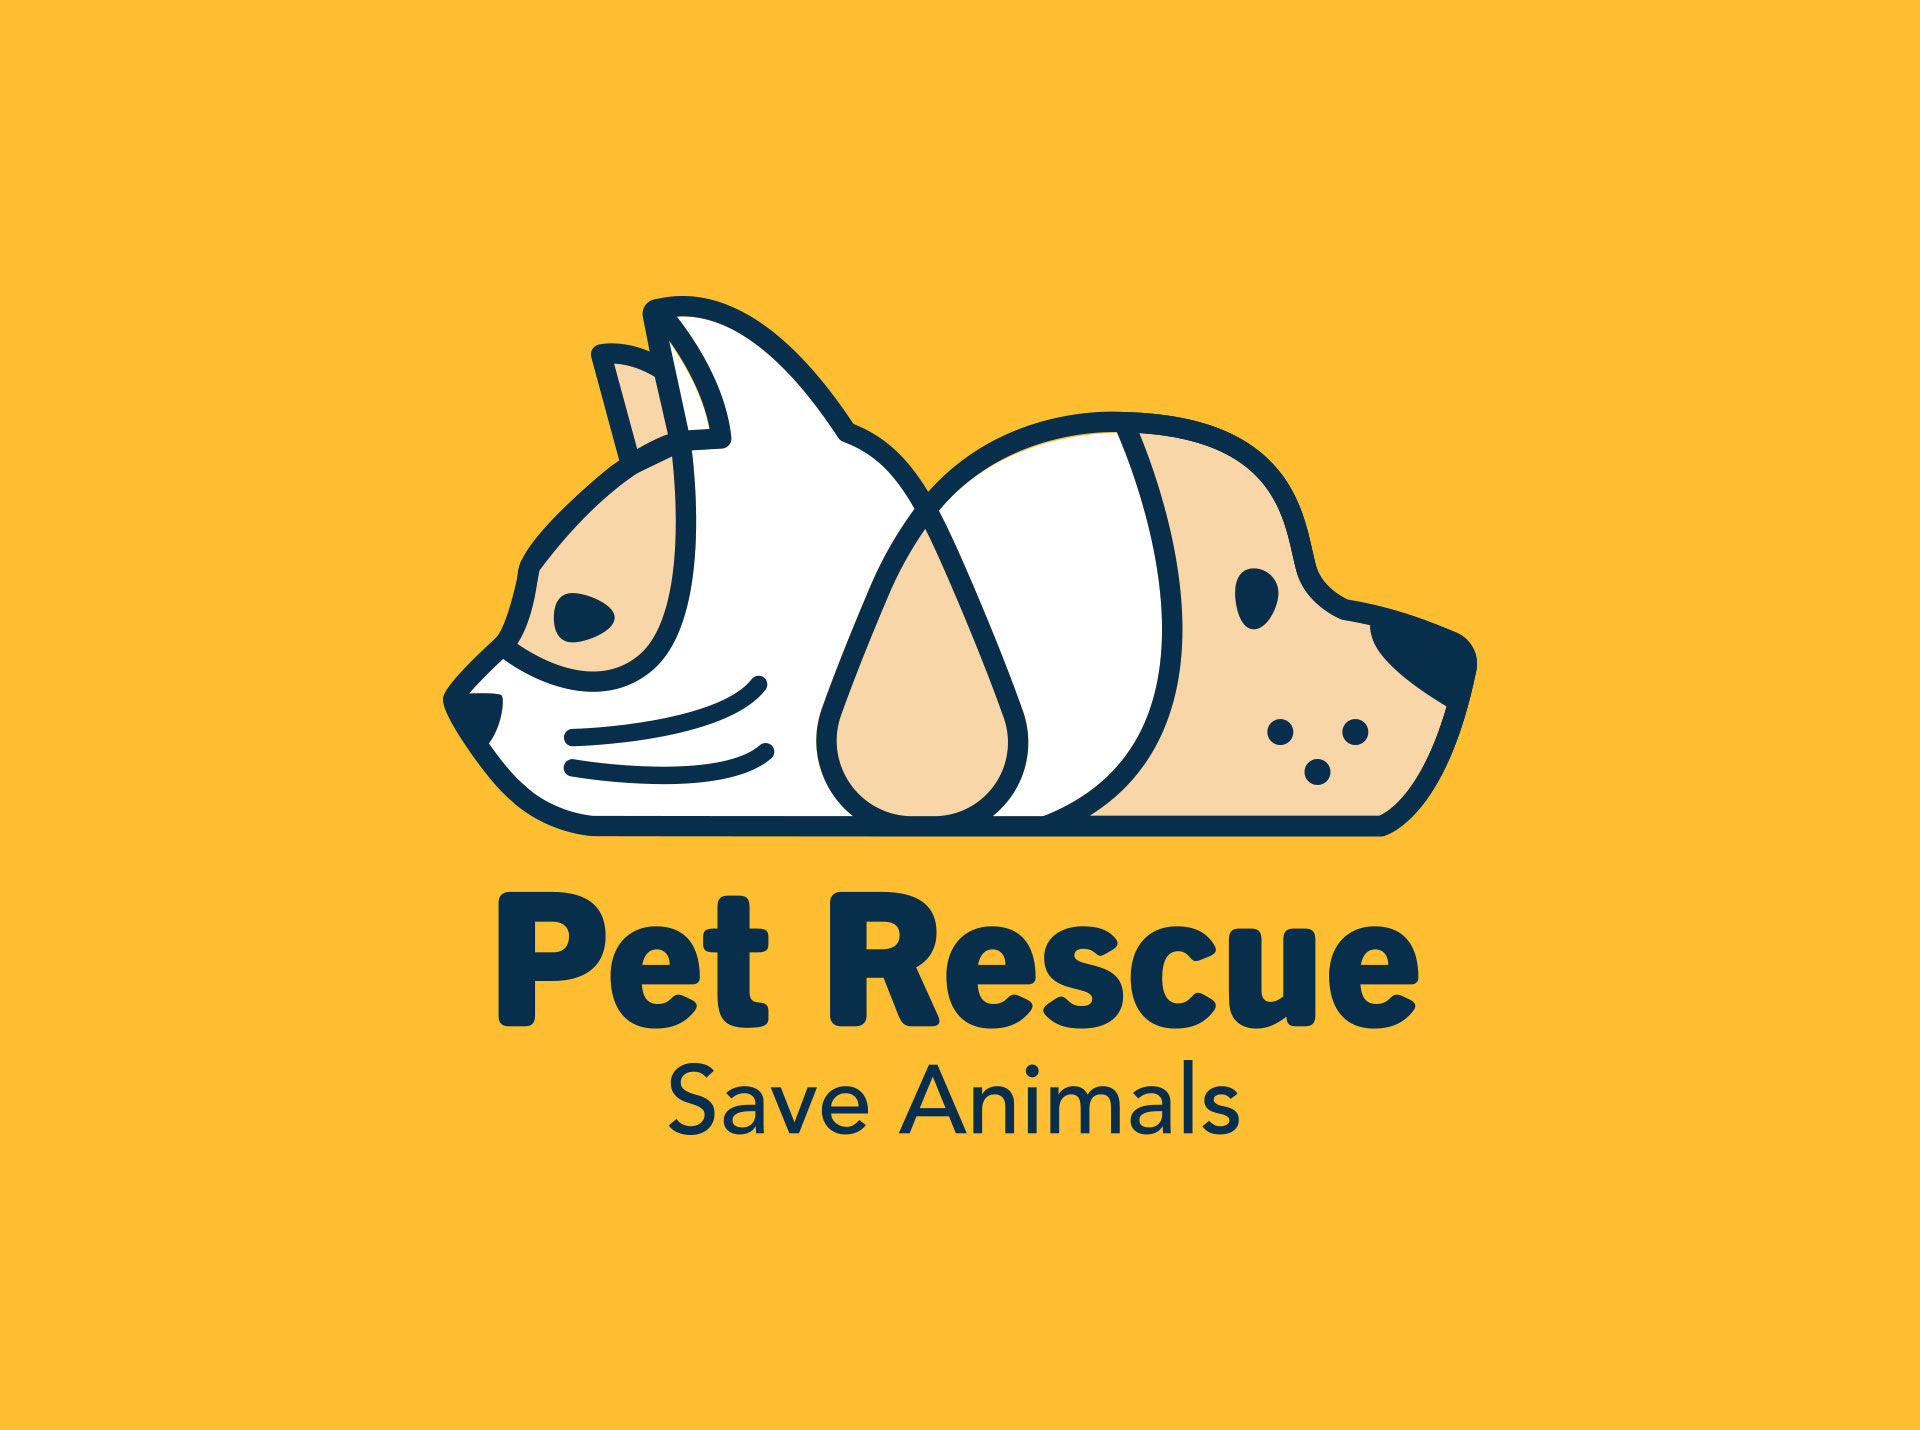
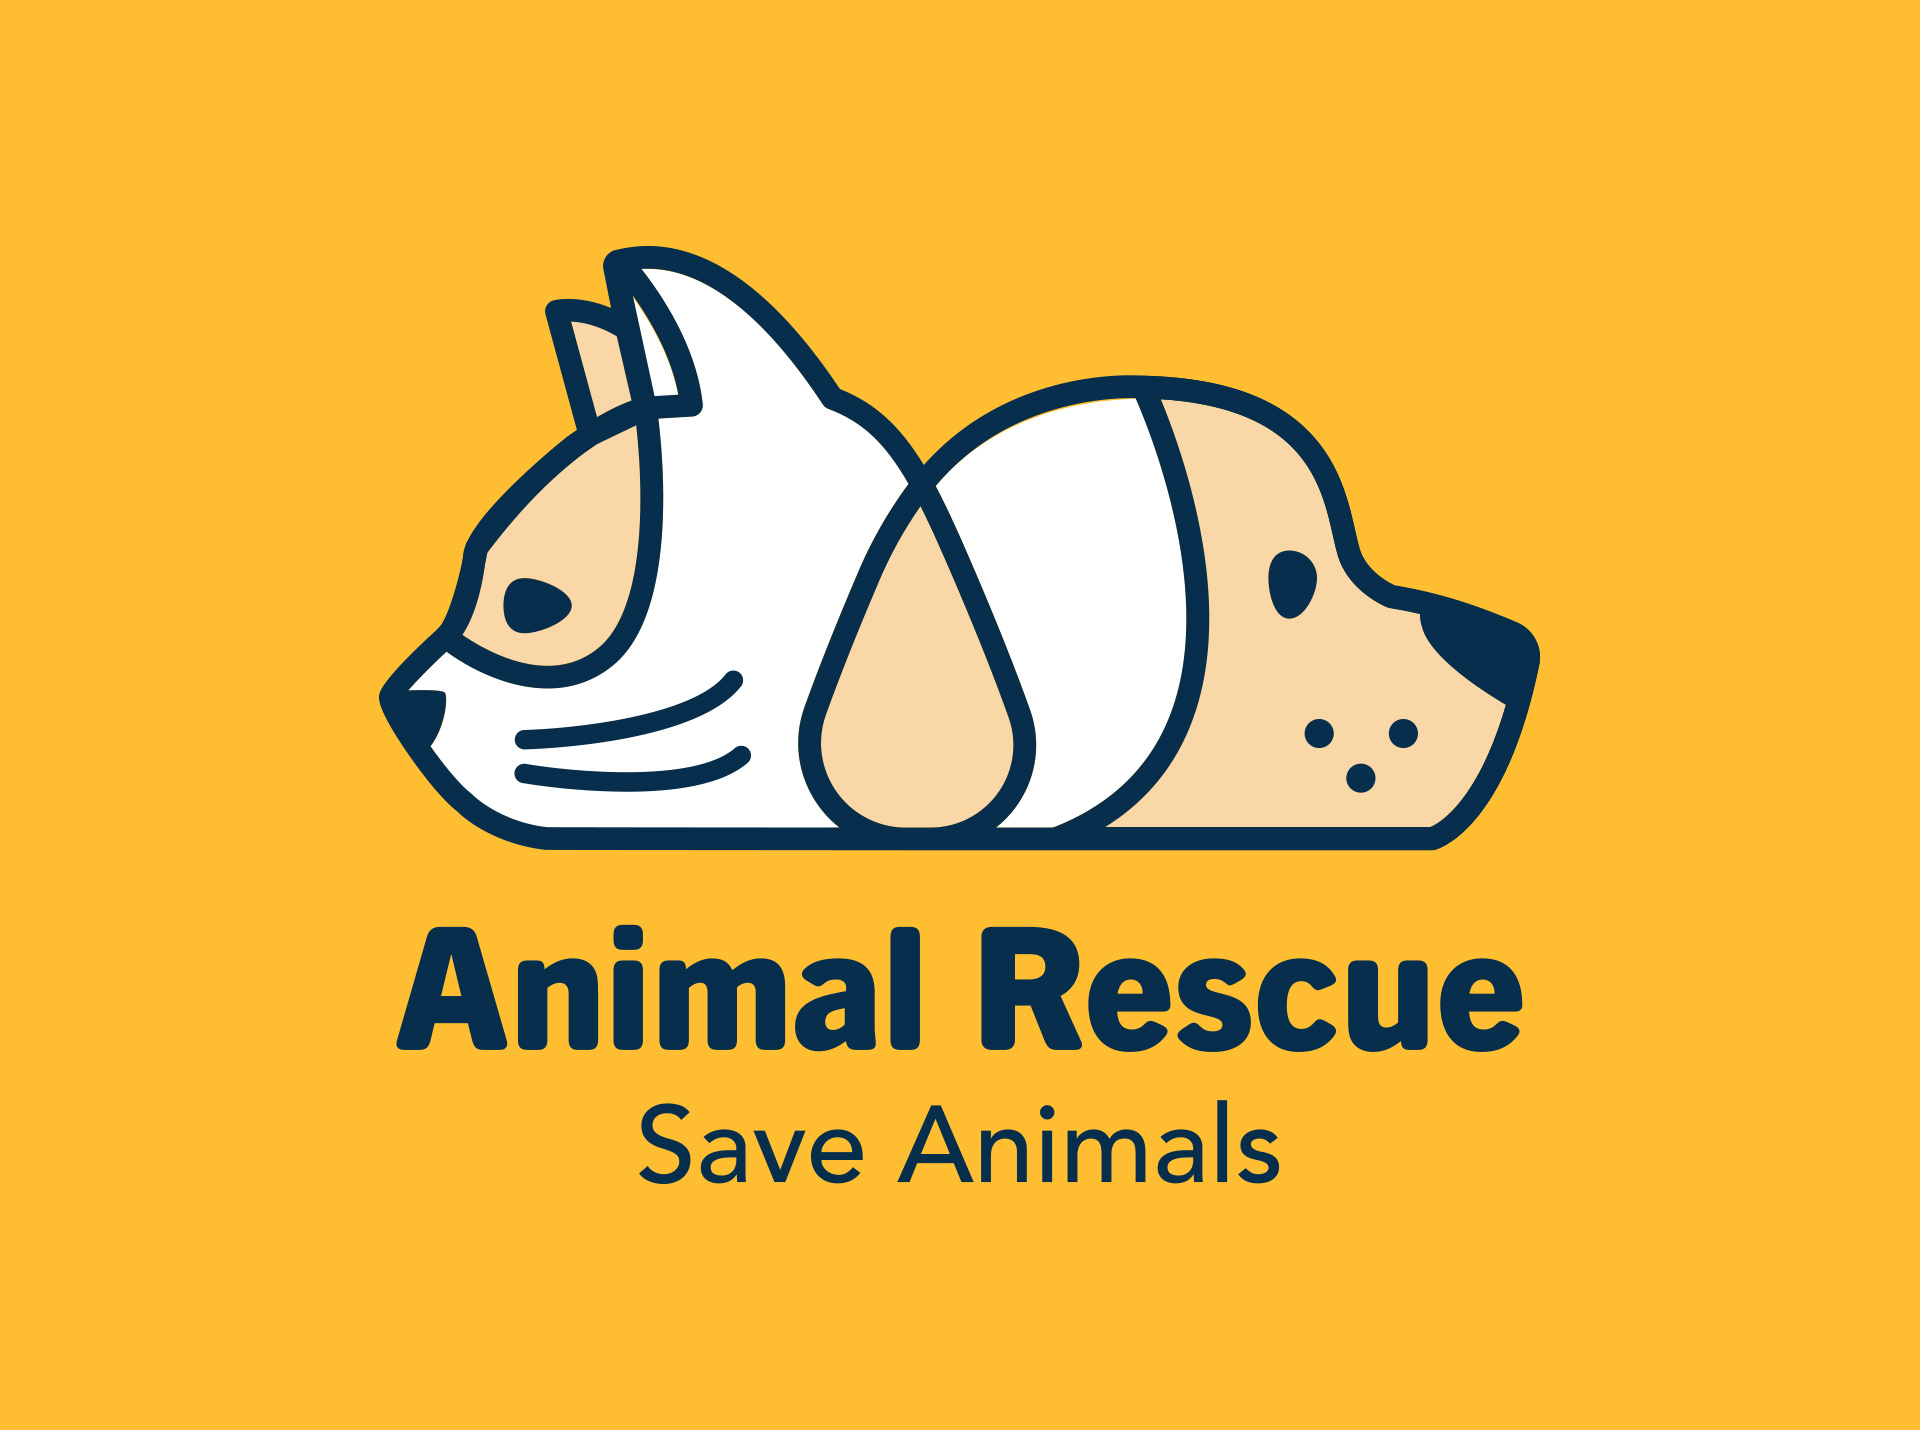
Update the cards

Changed region(s): [[0.1875, 0.1538, 0.8125, 0.8308], [0.5, 0.4, 0.5312, 0.4923]]

diff --git a/female-genital-mutilation.html b/female-genital-mutilation.html
@@ -4,20 +4,21 @@ layout: default
 {% pattern cards/card-title-portfolio-piece
   title="FGM Campaign"
   subtitle="[Print & Web Design - 2019]"
-  description="FGM (Female Genital Mutilation) is the ritual of cutting or removing of some or all of the external female genitals. The practice is rooted in gender inequality and attempts to control women’s sexuality. The poster was made for The International Day of Zero Tolerance for Female Genital Mutilation that takes place on February 6 as part of UN’s efforts to eradicate female genital mutilation."
+  description="The campaign branding was made for The International Day of Zero Tolerance for Female Genital Mutilation that takes place on February 6 as part of UN’s efforts to eradicate female genital mutilation."
 %}
 {% pattern cards/card-work-pieces
   title="Context"
-  description="The campaign was made for The International Day of Zero Tolerance for Female Genital Mutilation that takes place on February 6 as part of UN’s efforts to eradicate female genital mutilation."
+  description="FGM (Female Genital Mutilation) is the ritual of cutting or removing of some or all of the external female genitals. The practice is rooted in gender inequality and attempts to control women’s sexuality."
   image="/images/fgm/female-genital-mutilation-context.jpg"
 %}
 {% pattern cards/card-work-pieces
   title="Sketches"
+  description="The sketching phase allowed to establish a clear wireframe and overall feel of what web page would look like as well as how the poster would create traffic on the landing page. While the initial idea was to create a custom QR code, it was then decided to take another direction that would be probably more efficient and engaging with users."
   image="/images/fgm/female-genital-mutilation-sketches.jpg"
 %}
 {% pattern cards/card-work-pieces
   title="Outcome"
-  description="An interactive poster using augmented reality to enable the audience to access a landing page about FGM as part of the campaign #endfgm. This FGM poster is an interactive tool for raising awareness. To accomplish this, the poster would use an AR reader through its symbol that would lead to a landing page specially designed for this campaign when taken on picture via a mobile phone."
+  description="An interactive poster using augmented reality to enable the audience to access a landing page about FGM as part of the campaign #endfgm. This FGM poster is an interactive tool for raising awareness that can later be developped into a whole campaign. To accomplish this, the poster would use an AR reader through its symbol that would lead to a landing page specially designed for this campaign when taken on picture via a mobile phone."
   image="/images/fgm/female-genital-mutilation-01.jpg"
   image2="/images/fgm/female-genital-mutilation-02.jpg"
 %}

diff --git a/honeycomb-earrings.html b/honeycomb-earrings.html
@@ -8,17 +8,17 @@ layout: default
 %}
 {% pattern cards/card-work-pieces
   title="Goal"
-  description="The goal was to create a unique piece of jewelry that was inspired by bees. This could be worn as a statement and be part of a campaign to save the population of bees as they are currently endangered. The design was meant to be both organic and geometric to create an original design. This prototype could be reproduced with scrap pieces of wood and plastic."
+  description="The goal was to create a unique piece of jewelry that was inspired by bees. This could be worn as a statement and be part of a campaign to save the population of bees as they are currently endangered. The design was meant to be both organic and geometric to create an original design. This prototype could be reproduced with scrap pieces of wood and/or plastic."
   image="/images/honeycomb-earrings/earrings-goal.jpg"
 %}
 {% pattern cards/card-work-pieces
   title="Sketches"
-  description="During the sketching phase, a few designs and ideas were explored."
+  description="During the sketching phase, a few designs and ideas were explored. Different thicknesses were tested before making the final piece."
   image="/images/honeycomb-earrings/earrings-sketches.jpg"
 %}
 {% pattern cards/card-work-pieces
   title="Result"
-  description="After a few explorations of different potential designs and variations, the outcome was a simple, yet dynamic geometric shape. The earring was made using an acrylic sheet and a laser cutter. The final piece was then assembled with an earring hook and ring."
+  description="After a few explorations of different potential designs and variations, the outcome was a simple, yet dynamic geometric shape. The earring was then made using an acrylic sheet and a laser cutter. The final piece was then assembled with an earring hook and ring."
   image="/images/honeycomb-earrings/earrings-01.jpg"
   image2="/images/honeycomb-earrings/earrings-02.jpg"
 %}

diff --git a/index.html b/index.html
@@ -7,10 +7,10 @@ layout: default
     <a class="block content-fill unit-content-distribute" href="/female-genital-mutilation/">{% pattern cards/card-preview title="FGM Campaign" description="An interactive poster using augmented reality as part of the campaign #endfgm." image="/images/fgm/female-genital-mutilation-01.jpg" %}</a>
   </div>
   <div class="island unit [ xs-1 s-1 m-1 l-1-3 ] unit-content-distribute">
-    <a class="block content-fill unit-content-distribute" href="/carbone-neutre/">{% pattern cards/card-preview title="Carbone Neutre" description="A visual branding including a logo, a web design and a stationary set for a start-up called Carbone Neutre." image="/images/carbone-neutre/carbone-neutre-02.jpg" %}</a>
+    <a class="block content-fill unit-content-distribute" href="/animal-rescue/">{% pattern cards/card-preview title="Animal Rescue" description="A website & visual branding for an animal rescue organization." image="/images/pet-rescue/pet-rescue-01.jpg" %}</a>
   </div>
   <div class="island unit [ xs-1 s-1 m-1 l-1-3 ] unit-content-distribute">
-    <a class="block content-fill unit-content-distribute" href="/price-tag-cat-life/">{% pattern cards/card-preview title="Price Tag - A Cat's Life" description="An infographic about the price tag of owning a cat." image="/images/cat/price-tag-cat-life-01.jpg"%}</a>
+    <a class="block content-fill unit-content-distribute" href="/honeycomb-earrings/">{% pattern cards/card-preview title="Honeycomb Earrings" description="Acrylic laser cut earrings inspired by bees and honeycomb." image="/images/honeycomb-earrings/earrings-01.jpg"%}</a>
   </div>
 </div>
 <div class="text-center push">

diff --git a/animal-rescue.html b/animal-rescue.html
@@ -4,11 +4,11 @@ layout: default
 {% pattern cards/card-title-portfolio-piece
   title="Animal Rescue"
   subtitle="[Logo Design, Web Design & Web Development - 2019]"
-  description=""
+  description="A lot of animal shelters have a branding problem. To help shelter pets find homes, it is important to have a functional and user-friendly website to keep their potential members informed. "
 %}
 {% pattern cards/card-work-pieces
   title="Context"
-  description="As a start-up, Carborne Neutre needed a visual identity that would attract businesses to contact them in order to get their carbon neutral certification. The client wanted a logo, a website and a certification badge that would reflect their values. They have asked for a polar bear and natural colours such as green & blue."
+  description="The mission was to create a custom website and branding for a potential animal rescue group and/or animal shelter. Using a clear and friendly design, this project included a stationary set, a logo and a website. The website was developed using HTML, CSS & PHP."
   image="/images/pet-rescue/pet-rescue-01.jpg"
 %}
 {% pattern cards/card-work-pieces
@@ -16,4 +16,5 @@ layout: default
   description="Using clever imagery and a clean visual branding, a unique and recognisable visual identity was established."
   image="/images/pet-rescue/pet-rescue-02.jpg"
   image2="/images/pet-rescue/pet-rescue-03.jpg"
+  image3="/images/pet-rescue/pet-rescue-04.jpg"
 %}

diff --git a/snapchat-filter.html b/snapchat-filter.html
@@ -1,0 +1,20 @@
+---
+layout: default
+---
+{% pattern cards/card-title-portfolio-piece
+  title="Snapchat Filter"
+  subtitle="[AR Lens Filter - 2019]"
+  description="An AR Lens Filter that graphic designers across the globe can use to promote their skills."
+%}
+{% pattern cards/card-work-pieces
+  title="Process"
+  description="The process of creation started with a few sketches of elements that could be include in the Snapchat filter. After selecting the elements that would be include, the sketches were vectorized with Illustrator. Once this was done, the elements were brought into Lens Studio where the filter was created, then published. An icon that people could scan in order to use the filter was also made."
+  image="/images/snapchat-filter/snapchat-filter-sketches.jpg"
+%}
+{% pattern cards/card-work-pieces
+  title="Outcome"
+  description="A Snapchat filter and an AR icon users can scan in order to use the filter."
+  image="/images/snapchat-filter/snapchat-filter-01.jpg"
+  image2="/images/snapchat-filter/snapchat-filter-02.jpg"
+  image3="/images/snapchat-filter/snapchat-filter-03.jpg"
+%}
